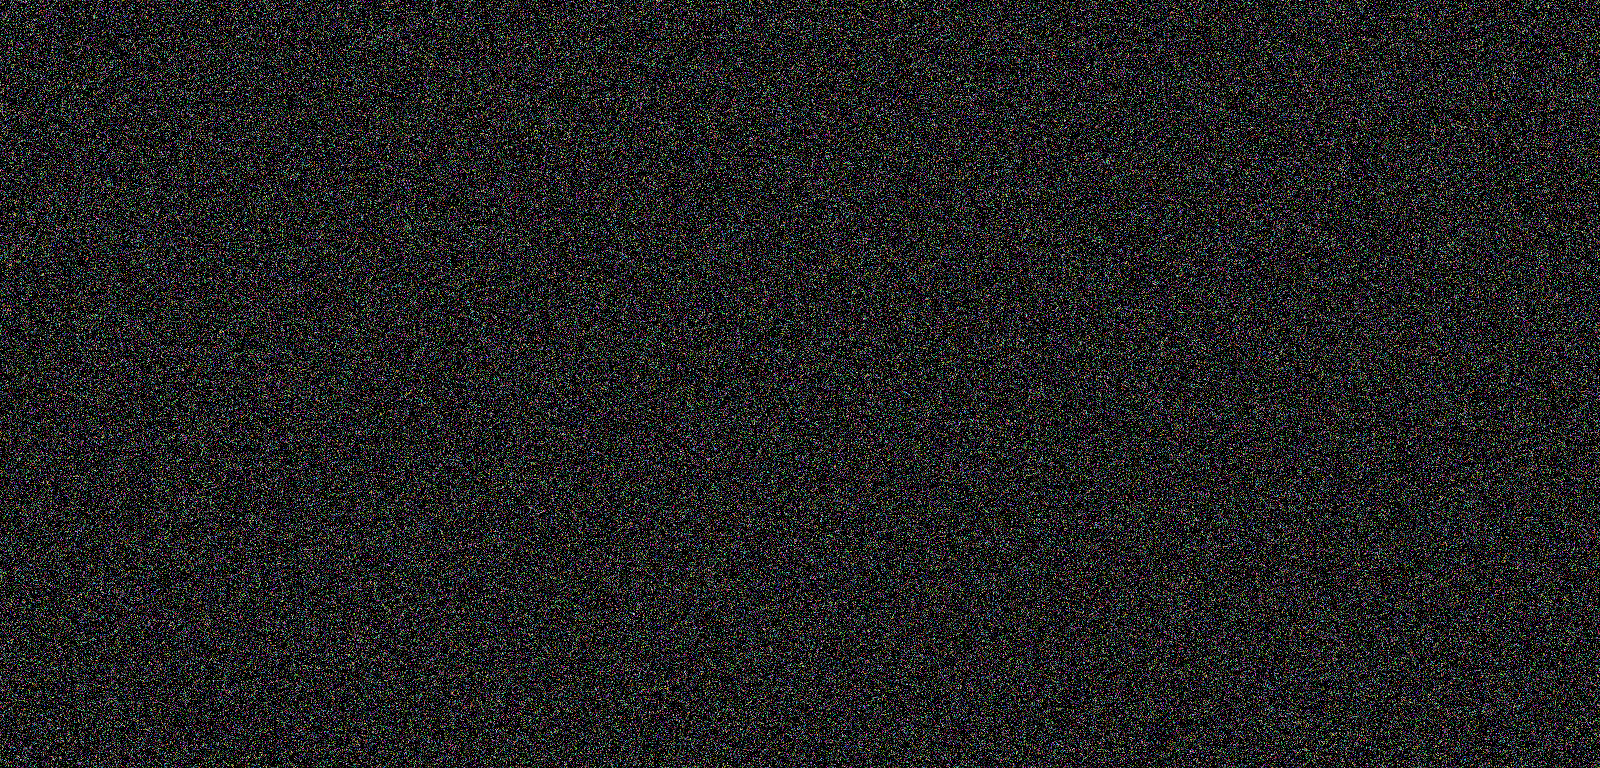
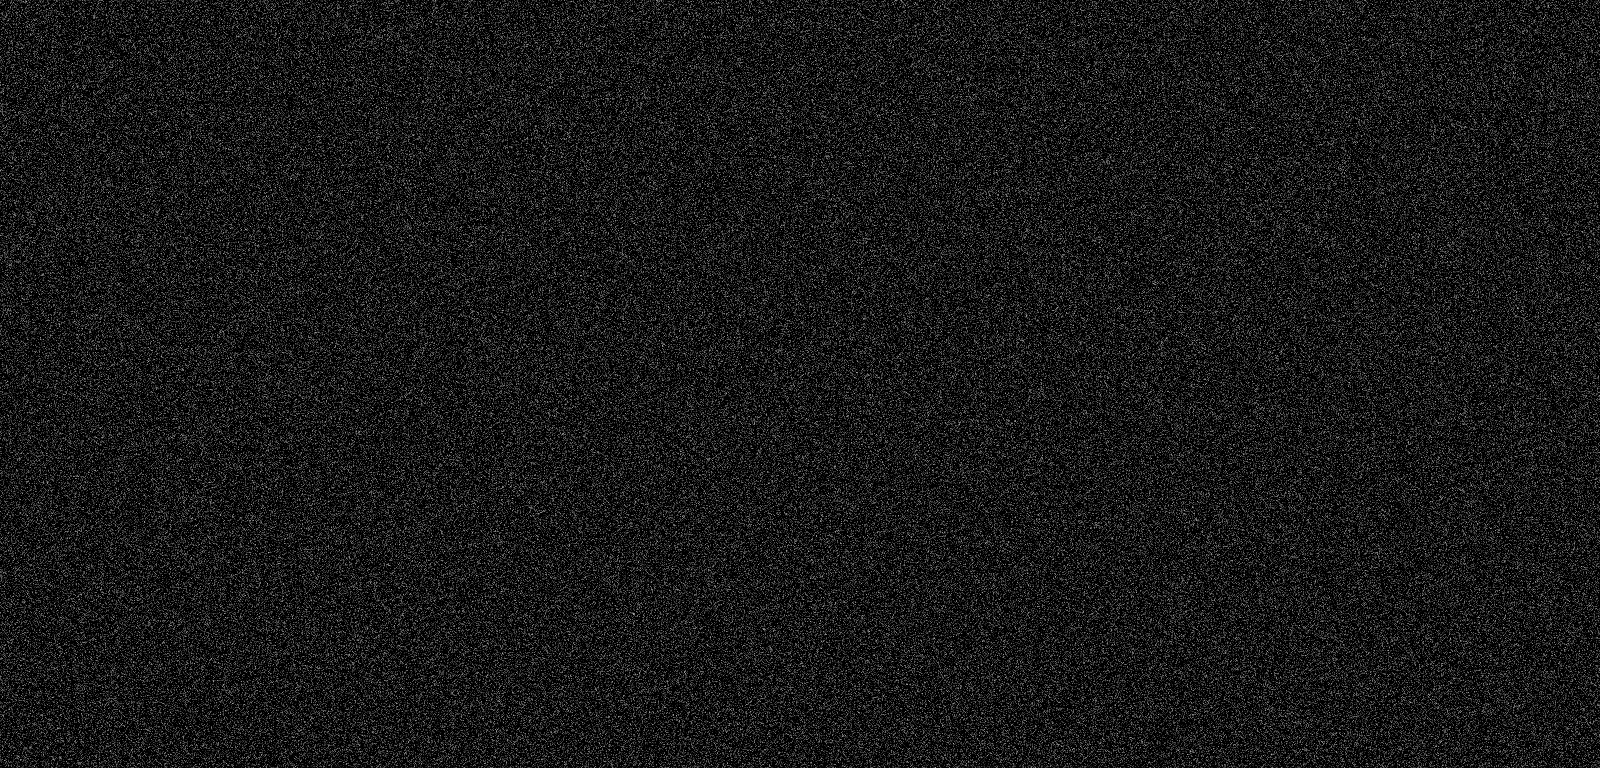
minor dark level changes, minor editing changes

diff --git a/lib/engine.rb b/lib/engine.rb
@@ -8,6 +8,7 @@ require './objects/background'
 
 require './lib/constants'
 require './lib/utility'
+require './lib/utility'
 require './lib/camera'
 require './lib/level'
 require './lib/mouse'
@@ -107,7 +108,7 @@ class GameWindow < Gosu::Window
   def button_down(id)
     if id == Gosu::KbEscape
       if @GameState == :game
-        # @level.save("levels/#{LEVEL}.yml") if @level_edited
+        @level.save("levels/#{LEVEL}.yml") if @level_edited
         @GameState = :menu
       elsif @GameState == :menu
         close
@@ -185,7 +186,7 @@ class GameWindow < Gosu::Window
 
       # create platforms with left mouse click
       if (button_down? Gosu::MsLeft) && !@still_clicking_left
-        platform_spec = [mouse_in_world.x, mouse_in_world.y, "dirtblocks.png"]
+        platform_spec = [mouse_in_world.x, mouse_in_world.y, "#{LEVEL}blocks.png"]
         @platforms << Platform.new(self, *platform_spec)
         #@level.hash[:Objects][:Platforms] << platform_spec
         @level.add_platform(@platforms.last)

diff --git a/objects/platform.rb b/objects/platform.rb
@@ -1,6 +1,6 @@
 # creates a single platform
 class Platform
-  def initialize(window, x, y, image_filename = "dirtblocks.png")
+  def initialize(window, x, y, image_filename)
     @image_filename = image_filename
     space = window.space
     

diff --git a/lib/constants.rb b/lib/constants.rb
@@ -1,4 +1,4 @@
-LEVEL = 'dark'
+LEVEL = 'dirt'
 
 SCREEN_WIDTH = 800
 SCREEN_HEIGHT = 600
